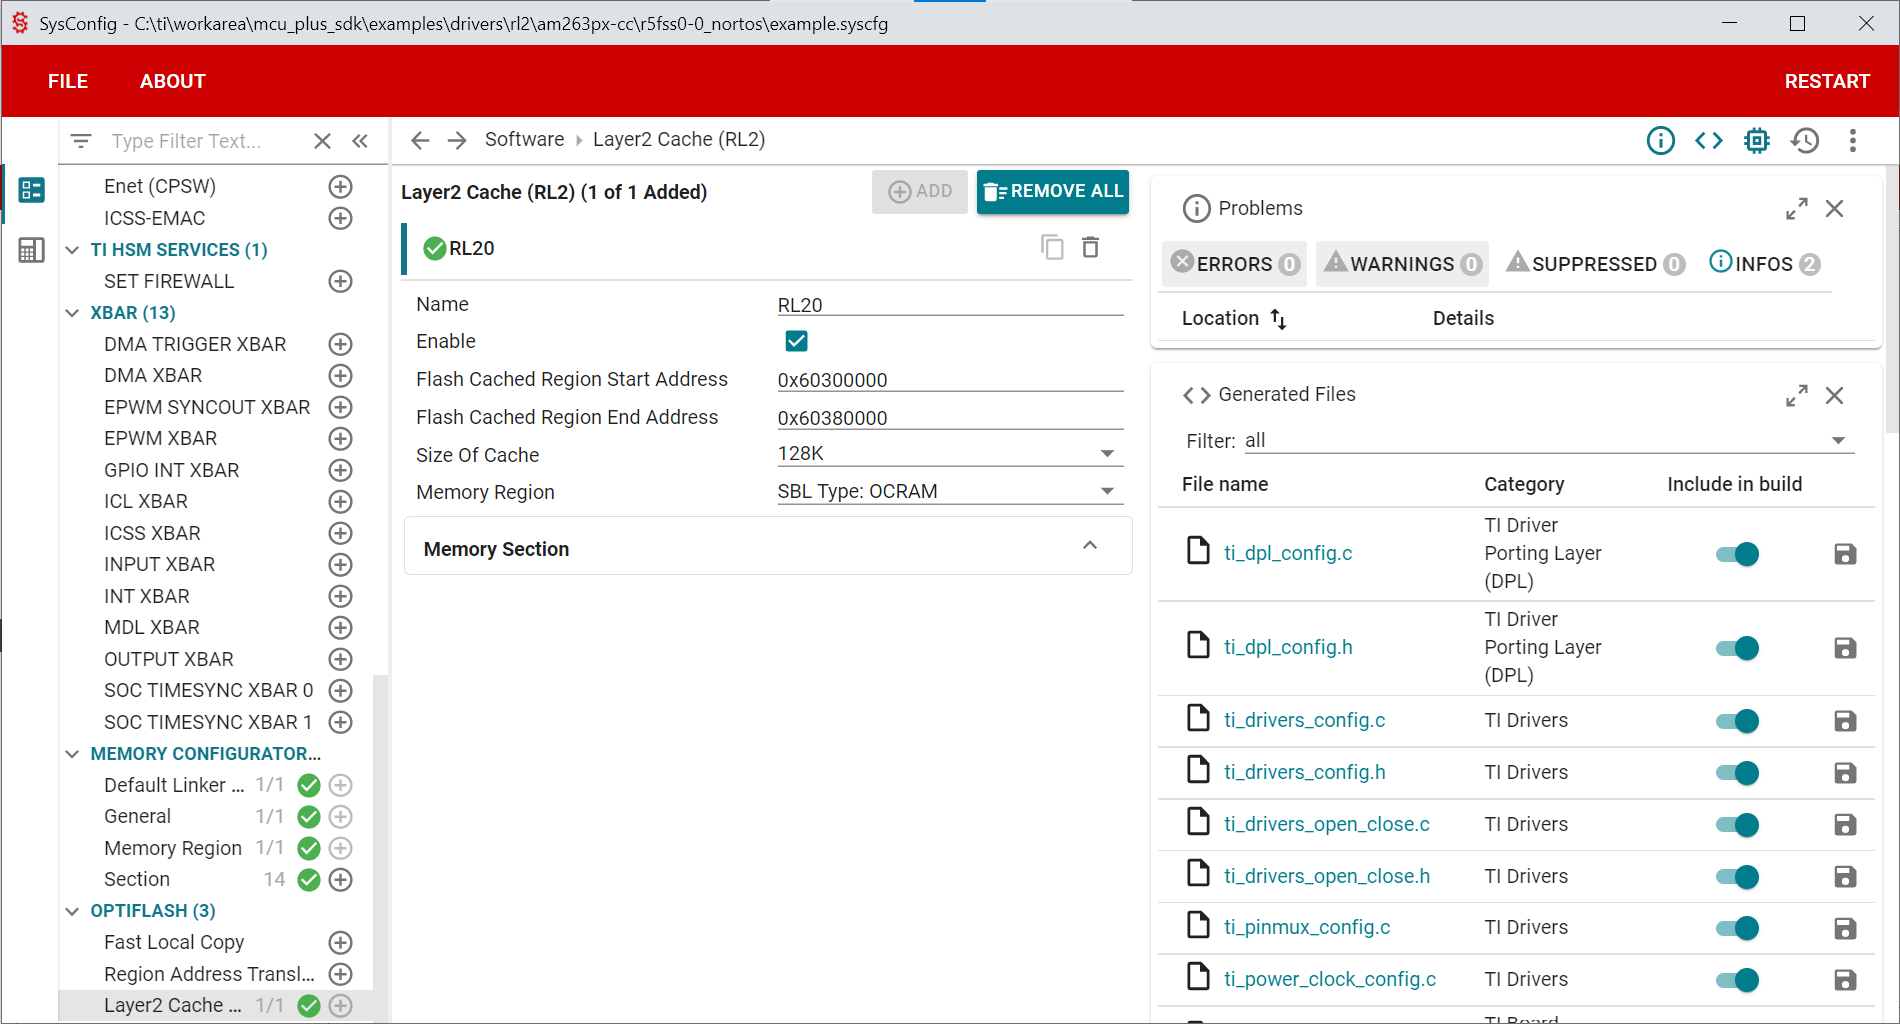
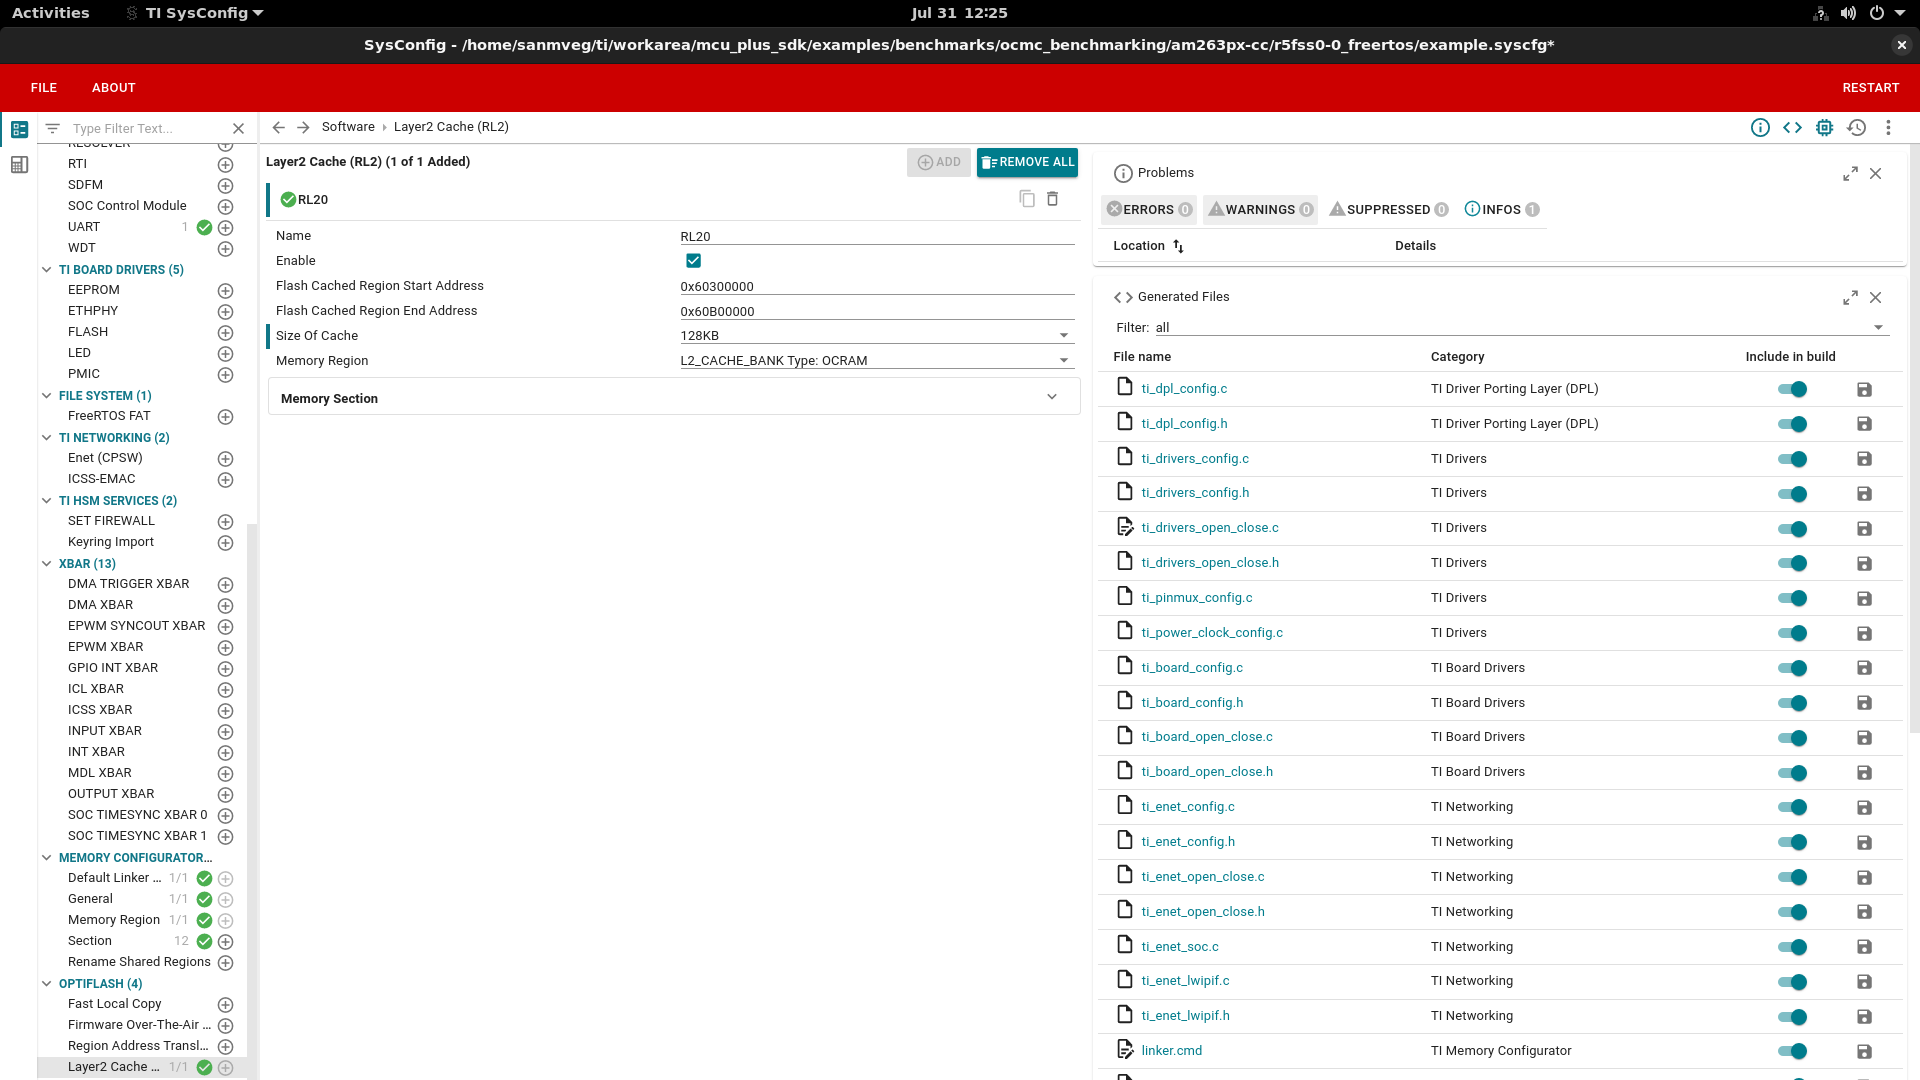
am263px: Optiflash: Update documentation
update documentation

Fixes: MCUSDK-13494

Changed region(s): [[0.0, 0.0, 1.0, 1.0], [0.2174, 0.5312, 0.3105, 0.5625]]

diff --git a/docs_src/docs/api_guide/developer_guides/optiflash_configuration.md b/docs_src/docs/api_guide/developer_guides/optiflash_configuration.md
@@ -15,7 +15,23 @@ There are three configurations that are largely needed:
 2. Range of memory to cache
 3. SRAM memory region to be used as L2 cache memory This SRAM memory region is an L2 remote region.
 
-These configurations can be done from syscfg as follows:
+
+Before configuring RL2, 1st requirement is to allocate a part of L2 memory as cache bank. To do this:
+- In syscfg, Open `Memory Region`:
+
+
+\imageStyle{optiflash_rl2_config_memory_region_open.png,width:50%}
+\image html optiflash_rl2_config_memory_region_open.png
+
+- Add new Memory region with the following details:
+
+
+\imageStyle{optiflash_rl2_config_memory_region_new.png,width:50%}
+\image html optiflash_rl2_config_memory_region_new.png
+
+Make sure that size of the memory region is more than the size of the cache that is required for the application. Here, since it is required to have 128KB of application, therefore, the size of this memory region `L2_CACHE_BANK` has been set to 128KB.
+
+Now once memory region has been created, RL2 can now be configured and its configuration can be done from syscfg as follows:
 
 \imageStyle{syscfg.png,width:50%}
 \image html syscfg.png
@@ -28,7 +44,7 @@ By selecting `Layer2 Cache` from the `OptiFlash` drop-down, the above configurat
 
 3. `Size of cache` is the size of L2 cache that is required to be configured.
 
-4. After this, select the memory region where the L2 cache bank should be located. This should be L2 memory (In case of am263px, L2 memory is OCRAM)
+4. After this, select the memory region where the L2 cache bank should be located. This should be L2 memory (In case of am263px, L2 memory is OCRAM). The memory region that is selected is `L2_CACHE_BANK` which was configured above. Similarly, if some other cache size has to be selected then the size of the cache bank has to be changed correspondingly. 
 
 ## How to configure FLC.
 
@@ -37,7 +53,7 @@ FLC is a simplified DMA. To configure FLC, in syscfg, it can be done by clicking
 \imageStyle{flc_syscfg_initial.png,width:50%}
 \image html flc_syscfg_initial.png
 
-Use `Add` button to to add FLC instances. For Am263px case, there are a total of 4 FLC instances per R5 core. All info that needs to be given is source address, destination address and size. Make sure that all these fields are 4K aligned.
+Use `Add` button to to add FLC instances. For AM263Px case, there are a total of 4 FLC instances per R5 core. All info that needs to be given is source address, destination address and size. Make sure that all these fields are 4K aligned.
 
 ## How to configure RAT.
 
